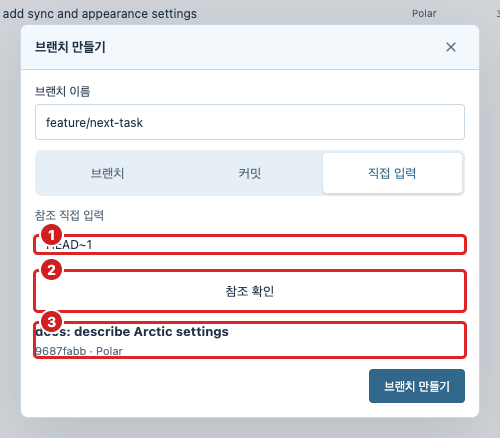
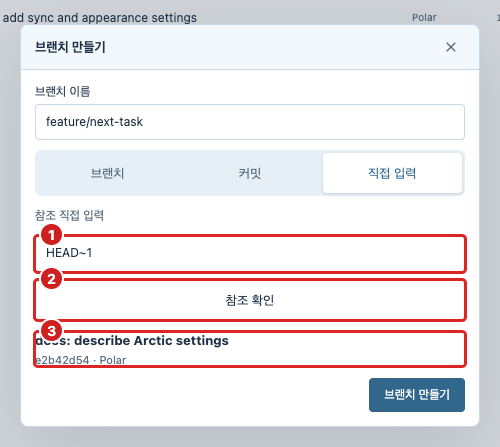
fix: keep reference inputs usable and localize invalid references

diff --git a/public/locales.js b/public/locales.js
@@ -40,6 +40,7 @@ const languages=[
 ];
 const columns=["ja","zh-CN","es","fr"];
 const messages={
+"No commit was found for this reference. Check the branch or tag name, or a reference such as HEAD~2.": ["この参照のコミットが見つかりません。ブランチ名・タグ名、または HEAD~2 などの参照を確認してください。", "未找到此引用的提交。请检查分支名、标签名或 HEAD~2 等引用。", "No se encontró ningún commit para esta referencia. Comprueba el nombre de la rama o etiqueta, o una referencia como HEAD~2.", "Aucun commit trouvé pour cette référence. Vérifiez le nom de branche ou de tag, ou une référence comme HEAD~2."],
 "Choose starting point": ["開始点を選択", "选择起点", "Elegir punto de partida", "Choisir le point de départ"],
 "Starting branch": ["開始ブランチ", "起始分支", "Rama de partida", "Branche de départ"],
 "Enter a reference": ["参照を入力", "输入引用", "Introducir referencia", "Saisir une référence"],

diff --git a/public/controls.css b/public/controls.css
@@ -459,6 +459,7 @@ body .merge-editor .merge-take{position:sticky;right:2px;flex-shrink:0;margin-le
 .reference-workflow [hidden]{display:none!important}
 .reference-field{display:flex;flex-direction:column;gap:8px;min-width:0}
 .reference-field>label{font-size:.9em;color:var(--muted)}
+body dialog .reference-field>input:not([type=checkbox]){flex:0 0 auto;min-height:max(36px,2.5em);height:auto;line-height:1.4;padding:8px 10px;margin:0}
 .reference-modes{display:flex;padding:3px;gap:3px;background:var(--soft);border-radius:7px}
 body .reference-modes button{flex:1;min-width:0;border:0;background:transparent;color:var(--muted);padding:8px;white-space:normal}
 body .reference-modes button[aria-pressed=true]{background:var(--surface);color:var(--accent);box-shadow:0 1px 3px #0002}

diff --git a/public/i18n.js b/public/i18n.js
@@ -1,6 +1,7 @@
 (() => {
 // UI copy only. Repository names, commit messages, code, paths and command output stay verbatim.
 const pairs=`
+해당 참조의 커밋을 찾을 수 없습니다. 브랜치·태그 이름이나 HEAD~2 같은 참조를 확인하세요.|No commit was found for this reference. Check the branch or tag name, or a reference such as HEAD~2.
 시작점 선택|Choose starting point
 기준 브랜치|Starting branch
 참조 직접 입력|Enter a reference
